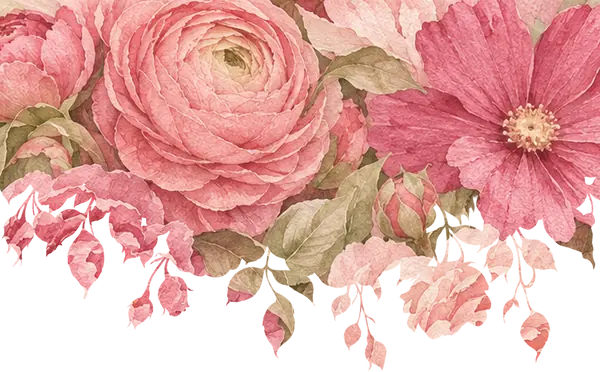
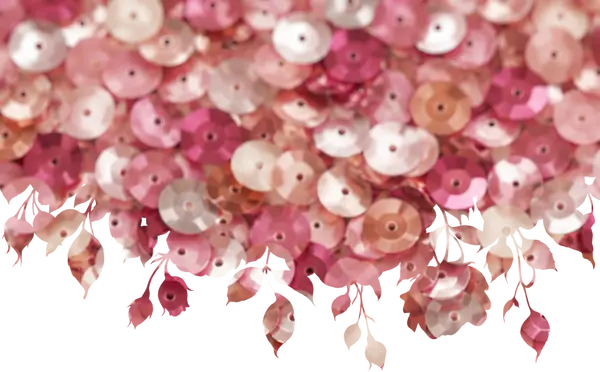
Soffia eligió fiesta: mandan los elementos de fiesta y las flores pasan a acento
Seis láminas nuevas. Las tres flores sueltas se van y cada sección se queda
con un solo objeto suyo: guirnalda de estrellas en la fecha, hilos de perlas
en los lugares, cintas rizadas en la vestimenta, un globo suelto en el primer
mensaje. Las esferas, el racimo y los moños se quedan donde estaban. Flores
quedan en la apertura y en el trío de la despedida.

El muro que tapaba su fotografía era la superficie de flores más grande de la
invitación: ahora son lentejuelas. Se conserva la silueta recortada de los
paneles viejos y cambia solo lo que la rellena, así que el desvelado se abre
igual; el canto rasgado, relleno de lentejuelas, se lee como una cascada.

Las piezas que cuelgan van medidas por ALTO, no por ancho: son tiras largas y
estrechas, y atadas al ancho se salían de la banda de arriba.

La pieza que cae ya no es una rosa, es una estrella de purpurina, con tres
vistas que esta vez sí tienen siluetas distintas. Dos cosas que eso obligó a
corregir, las dos medidas, no supuestas:

La estrella llena su lienzo de borde a borde mientras que la rosa dejaba
margen, así que con la misma medida pasó de 68 a 98 px y cruzaba los títulos
como un bloque. Baja a 56, que es lo que pesaba la rosa.

Y aterriza justo donde aparece la pieza del cierre, fundiéndose con ella: con
una rosa debajo, la estrella se convertía en flor a la vista. El centro del
trío es ahora la misma estrella, a un tamaño que no da salto en el relevo.
[…]

diff --git a/index.html b/index.html
@@ -14,7 +14,7 @@
 <!-- El estilo se decide antes de pintar nada: si se pusiera desde script.js
      se vería un parpadeo del estilo viejo al nuevo. Manda ?estilo= de la URL;
      si no, lo que diga datos.js (y por defecto, «papel»). -->
-<script src="datos.js?v=1795318058-7ebf141"></script>
+<script src="datos.js?v=1795371368-717bbb9"></script>
 <script>
   (function () {
     var p = new URLSearchParams(location.search).get('estilo');
@@ -25,7 +25,7 @@
   })();
 </script>
 <link rel="preload" as="image" href="assets/apertura-poster.webp">
-<link rel="stylesheet" href="styles.css?v=1795318058-7ebf141">
+<link rel="stylesheet" href="styles.css?v=1795371368-717bbb9">
 </head>
 <body class="sin-abrir">
 
@@ -102,6 +102,7 @@
 <!-- ══════════════ 2 · LA ILUSIÓN ══════════════ -->
 <section class="seccion s-nota" id="nota">
   <div class="costura costura-arriba invertida" aria-hidden="true"></div>
+  <img class="adorno ad-globo" src="assets/ad-globo.webp" alt="" aria-hidden="true" loading="lazy" data-parallax="0.08">
 
   <div class="envoltorio">
     <p class="parrafo-grande revela" id="msj-presentacion" style="--i:0"></p>
@@ -111,7 +112,6 @@
 <!-- ══════════════ 3 · SOFFIA ══════════════ -->
 <section class="seccion s-soffia" id="soffia">
   <div class="costura costura-arriba" aria-hidden="true"></div>
-  <img class="flor flor-soffia" src="assets/flor-rosa.webp" alt="" loading="lazy" data-parallax="0.09">
   <img class="adorno ad-brillo ad-brillo-esferas" src="assets/ad-brillo.webp" alt="" aria-hidden="true" loading="lazy" data-parallax="0.13">
   <img class="adorno ad-esferas" src="assets/ad-esferas.webp" alt="" aria-hidden="true" loading="lazy" data-parallax="0.10">
 
@@ -159,7 +159,7 @@
 <!-- ══════════════ 3 · CUÁNDO Y DÓNDE ══════════════ -->
 <section class="seccion s-cuando" id="cuando">
   <div class="costura costura-arriba invertida" aria-hidden="true"></div>
-  <img class="flor flor-cuando" src="assets/flor-ramo.webp" alt="" loading="lazy" data-parallax="0.07">
+  <img class="adorno ad-guirnalda" src="assets/ad-guirnalda.webp" alt="" aria-hidden="true" loading="lazy" data-parallax="0.11">
 
   <div class="envoltorio">
     <p class="antetitulo revela" style="--i:0">Cuándo</p>
@@ -180,6 +180,7 @@
 <!-- ══════════════ 4b · DÓNDE ══════════════ -->
 <section class="seccion s-donde" id="donde">
   <div class="costura costura-arriba" aria-hidden="true"></div>
+  <img class="adorno ad-perlas" src="assets/ad-perlas.webp" alt="" aria-hidden="true" loading="lazy" data-parallax="0.12">
 
   <div class="envoltorio">
     <p class="antetitulo revela" style="--i:0">Dónde</p>
@@ -192,7 +193,6 @@
 <!-- ══════════════ 4 · ITINERARIO ══════════════ -->
 <section class="seccion s-itinerario" id="itinerario">
   <div class="costura costura-arriba" aria-hidden="true"></div>
-  <img class="flor flor-itin" src="assets/flor-capullos.webp" alt="" loading="lazy" data-parallax="0.11">
   <img class="adorno ad-mono-a" src="assets/ad-mono-a.webp" alt="" aria-hidden="true" loading="lazy" data-parallax="0.10">
 
   <div class="envoltorio">
@@ -210,6 +210,7 @@
 <!-- ══════════════ 5 · VESTIMENTA ══════════════ -->
 <section class="seccion s-vestir" id="vestir" hidden>
   <div class="costura costura-arriba invertida" aria-hidden="true"></div>
+  <img class="adorno ad-cintas" src="assets/ad-cintas.webp" alt="" aria-hidden="true" loading="lazy" data-parallax="0.10">
 
   <div class="envoltorio">
     <div class="vestimenta" id="vestimenta" hidden></div>
@@ -270,6 +271,6 @@
   Vista previa
 </div>
 
-<script src="script.js?v=1795318058-7ebf141"></script>
+<script src="script.js?v=1795371368-717bbb9"></script>
 </body>
 </html>

diff --git a/styles.css b/styles.css
@@ -860,7 +860,8 @@ main{ display:block; }
      títulos; así se desliza tras ellos, que es como se mueve un pétalo de
      verdad sobre una hoja escrita. */
   position:fixed; z-index:1; left:50%; top:0;
-  width:clamp(54px, 14.5vw, 76px); aspect-ratio:1128/1048;
+  width:clamp(40px, 10.5vw, 56px); aspect-ratio:1/1;
+  opacity:.9;
   display:block;
   /* la sombra se apaga al posarse: la flor del cierre no proyecta ninguna */
   filter: drop-shadow(0 calc(5px * var(--sombra-rosa,1)) calc(11px * var(--sombra-rosa,1))
@@ -1014,6 +1015,16 @@ body.anima .revela.visible{ opacity:1; transform:none; }
    Va antes que su pieza en el documento, así que queda por debajo de ella.
    Es además lo que ata el recorte fotográfico al papel de acuarela: sin nada
    que los una, el metal se queda encima como una pegatina. */
+/* Las piezas que cuelgan van medidas por ALTO, no por ancho: son tiras largas
+   y estrechas, y atándolas al ancho se salían de la banda de arriba. El hilo
+   o la cinta se corta en el canto, así que cuelgan de la costura. */
+.ad-guirnalda { height:clamp(148px, 27vw, 178px); width:auto; top:-6px; left:5%;  --giro:0deg; }
+.ad-perlas    { height:clamp(142px, 26vw, 170px); width:auto; top:-6px; right:7%; --giro:0deg; }
+.ad-cintas    { height:clamp(140px, 25vw, 166px); width:auto; top:-6px; right:4%; --giro:0deg; }
+
+/* El globo sube, así que sale por el canto de abajo, como el racimo. */
+.ad-globo     { width:19%; bottom:-26px; right:6%; --giro:0deg; }
+
 .ad-brillo        { opacity:.78; }
 .ad-brillo-esferas{ width:42%; top:-34px;    left:-7%;  --giro:0deg; }
 .ad-brillo-globos { width:40%; bottom:-50px; right:-6%; --giro:0deg; }
@@ -1055,14 +1066,17 @@ body.anima .revela.visible{ opacity:1; transform:none; }
 }
 :root[data-estilo="fiesta"] .ad-mono-a,
 :root[data-estilo="fiesta"] .ad-mono-b,
-:root[data-estilo="fiesta"] .ad-globos{
+:root[data-estilo="fiesta"] .ad-globos,
+:root[data-estilo="fiesta"] .ad-globo,
+:root[data-estilo="fiesta"] .ad-guirnalda,
+:root[data-estilo="fiesta"] .ad-perlas,
+:root[data-estilo="fiesta"] .ad-cintas{
   filter: drop-shadow(0 5px 13px rgba(160,60,100,.17));
 }
 
 /* Las flores son las mismas en los dos estilos: aquí se les sube el tono
    para que no se queden pálidas al lado del rosa fuerte. */
-:root[data-estilo="fiesta"] .flor,
-:root[data-estilo="fiesta"] .petalo{
+:root[data-estilo="fiesta"] .flor{
   filter: saturate(1.22) contrast(1.03);
 }
 

diff --git a/PROMPTS para el estilo fiesta.md b/PROMPTS para el estilo fiesta.md
@@ -1,44 +1,56 @@
 # Lo que falta generar
 
-Todo lo anterior ya está hecho y montado. **Solo quedan estos dos vídeos.**
-
-Son la apertura: el sobre que se abre y la hoja que se queda en pantalla. Es lo
-único que sigue con las rosas viejas, y es lo primero que se ve.
-
-Los dos a **810 × 1440 px, 24 fps**. Copia cada bloque entero y pégalo tal cual.
+Seis imágenes, ordenadas por lo que más cambia la invitación. Copia el bloque y
+pégalo. Si solo vas a hacer unas pocas: **1, 2 y 3.**
 
 ---
 
-## 1 · El sobre se abre · 3,9 segundos
+## 1 · El telón que tapa su foto
 
 ```
-Vertical video, 9:16 aspect ratio, 810 x 1440 pixels, 24 fps, 4 seconds. Top-down view of a blush pink envelope lying flat on warm ivory cotton paper, lit softly from the upper left with no hard shadows. A rose gold wax seal holds the flap closed. The flap lifts open and a deckle-edged ivory card begins to rise out of the envelope. The card is decorated with loose watercolor garden flowers in the upper left corner and the lower right corner only: ranunculus with layered petals, open cosmos with round petals, and a single peony, in fresh saturated pink from pale blush to deep raspberry, with soft sage green leaves. The entire centre of the card stays completely empty. Slow, calm, elegant camera movement. No text, no letters, no numbers, no hands, no people, no watermark.
+A dense wall of small round sequins packed tightly together, photographed straight on. Blush pink, deep raspberry and champagne silver sequins mixed together, each one catching the light at a slightly different angle so the surface shimmers. Soft studio lighting, realistic specular highlights, shallow depth so a few sequins fall gently out of focus. The sequins must fill the entire frame edge to edge, reaching all four corners, with no gaps, no empty areas and no background showing through anywhere. Even coverage across the whole image with no single focal point. Opaque image, no transparency needed. No text, no letters, no numbers, no watermark, no frame, no border, no people, no hands. Palette strictly limited to blush pink #F0C9C7, antique rose #D98E92, deep pink #C9557E, rose gold #CC967D, champagne silver #D9D4D0 and warm ivory #FBF3E9. 2048 x 2048 px, square.
 ```
 
 ---
 
-## 2 · La hoja llena el cuadro · 3,3 segundos
+## 2 · La pieza que cae
 
 ```
-Vertical video, 9:16 aspect ratio, 810 x 1440 pixels, 24 fps, 3 seconds. Continuation of the same scene, same soft lighting from the upper left and same top-down angle: a deckle-edged ivory card rising out of a blush pink envelope on warm ivory cotton paper. The card finishes rising and the camera moves slowly closer until the card fills the whole frame and the envelope is no longer visible. The card is decorated with loose watercolor garden flowers in the upper left corner and the lower right corner only: ranunculus with layered petals, open cosmos with round petals, and a single peony, in fresh saturated pink from pale blush to deep raspberry, with soft sage green leaves. The entire centre of the card stays completely empty. The movement comes to a complete stop at the end, holding still on the card filling the frame. No text, no letters, no numbers, no hands, no people, no watermark.
+Three separate paintings of the same five-pointed glitter star, seen from three different angles, floating apart from each other on the same sheet: one seen flat from the front, one tilted in three-quarter view, and one seen almost edge-on so it looks narrow. Fine iridescent glitter texture in pink and silver, catching the light, with crisp points. Each of the three the same size as the others. Transparent background, PNG with alpha channel; if transparency is not available, use a pure flat white background with no shadow and no gradient. Soft diffused light from the upper left, no hard shadows, no cast shadow under the objects. Generous empty margin around each one. No text, no letters, no numbers, no watermark, no frame, no background scenery. Palette strictly limited to blush pink #F0C9C7, antique rose #D98E92, deep pink #C9557E, rose gold #CC967D and champagne silver #D9D4D0. 2048 x 2048 px, square.
 ```
 
 ---
 
-## Cuatro cosas que no pueden fallar
+## 3 · Guirnalda de estrellas colgando
 
-**El centro de la hoja, vacío.** Ahí va el nombre, escrito en la página. Si el
-generador mete una flor en medio, la letra le cae encima.
-
-**Flores solo en dos esquinas opuestas**, arriba izquierda y abajo derecha.
-
-**El segundo vídeo tiene que acabar quieto.** Ese último fotograma se queda en
-pantalla mientras aparece el nombre.
-
-**La misma luz en los dos**, suave y desde arriba a la izquierda. Si cambia de
-uno a otro, el corte se nota.
+```
+Three vertical strings of glitter stars hanging down side by side at different lengths, like a party garland, product photography. Each string is a thin silver thread with five-pointed glitter stars of varying sizes attached along it, in pink and silver iridescent glitter, turning slightly so some stars face the camera and others are seen edge-on. The threads continue upward and are cut off by the top edge of the frame. Transparent background, PNG with alpha channel; if transparency is not available, use a pure flat white background with no shadow and no gradient. Soft diffused light from the upper left, no hard shadows, no cast shadow under the objects. Generous empty margin around the group. No text, no letters, no numbers, no watermark, no frame, no background scenery. Palette strictly limited to blush pink #F0C9C7, antique rose #D98E92, deep pink #C9557E, rose gold #CC967D and champagne silver #D9D4D0. 2048 x 2048 px, square.
+```
 
 ---
 
-Déjalos en la carpeta y me dices. **Las imágenes fijas las saco yo de los
-vídeos**, para que encajen exactas y el relevo no se vea.
+## 4 · Cintas rizadas
+
+```
+Several long satin ribbons hanging down side by side at different lengths, with their ends curled into loose spirals, product photography. Luxurious silk satin with a soft sheen and visible folds, in blush pink, dusty rose and champagne, falling naturally with a gentle wave. The ribbons continue upward and are cut off by the top edge of the frame. Transparent background, PNG with alpha channel; if transparency is not available, use a pure flat white background with no shadow and no gradient. Soft diffused light from the upper left, no hard shadows, no cast shadow under the objects. Generous empty margin around the group. No text, no letters, no numbers, no watermark, no frame, no background scenery. Palette strictly limited to blush pink #F0C9C7, antique rose #D98E92, deep pink #C9557E, rose gold #CC967D and champagne silver #D9D4D0. 2048 x 2048 px, square.
+```
+
+---
+
+## 5 · Un globo grande, solo
+
+```
+One single large round foil balloon floating, product photography. Rose gold chrome with a mirror-like metallic surface reflecting soft studio light, with visible gentle creases and a seam where it is inflated, and the small gathered neck at the bottom. A long smooth satin ribbon hangs down from it and is cut off by the bottom edge of the frame. Transparent background, PNG with alpha channel; if transparency is not available, use a pure flat white background with no shadow and no gradient. Soft diffused light from the upper left, no hard shadows, no cast shadow under the object. Generous empty margin around the balloon. No text, no letters, no numbers, no watermark, no frame, no background scenery. Palette strictly limited to blush pink #F0C9C7, antique rose #D98E92, deep pink #C9557E, rose gold #CC967D and champagne silver #D9D4D0. 2048 x 2048 px, square.
+```
+
+---
+
+## 6 · Hilos de perlas
+
+```
+Four strands of small round pearls hanging down side by side at different lengths, product photography. Creamy ivory and pale blush pearls with a soft pearlescent sheen and a delicate highlight on each one, strung close together on a fine thread, hanging straight with a slight natural sway. The strands continue upward and are cut off by the top edge of the frame. Transparent background, PNG with alpha channel; if transparency is not available, use a pure flat white background with no shadow and no gradient. Soft diffused light from the upper left, no hard shadows, no cast shadow under the objects. Generous empty margin around the group. No text, no letters, no numbers, no watermark, no frame, no background scenery. Palette strictly limited to blush pink #F0C9C7, antique rose #D98E92, rose gold #CC967D, champagne silver #D9D4D0 and warm ivory #FBF3E9. 2048 x 2048 px, square.
+```
+
+---
+
+Déjalas en la carpeta y me dices.
